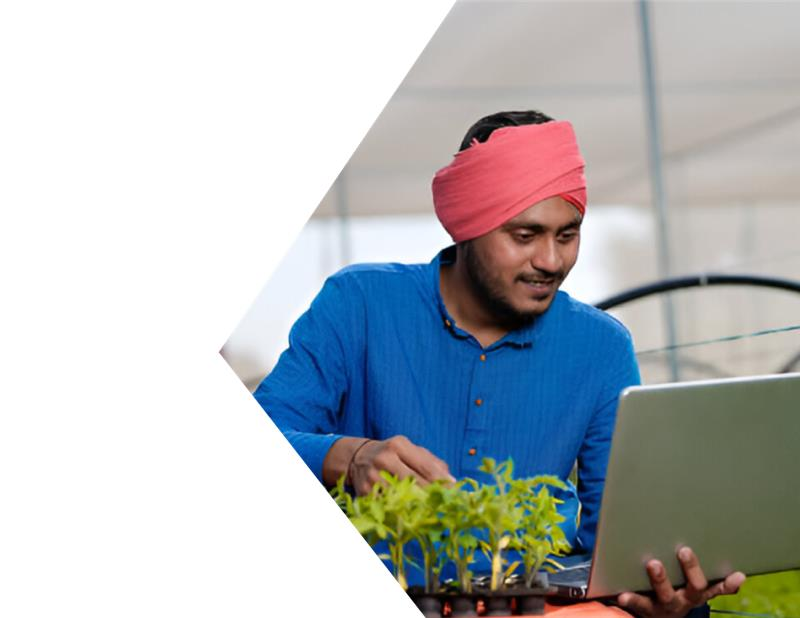
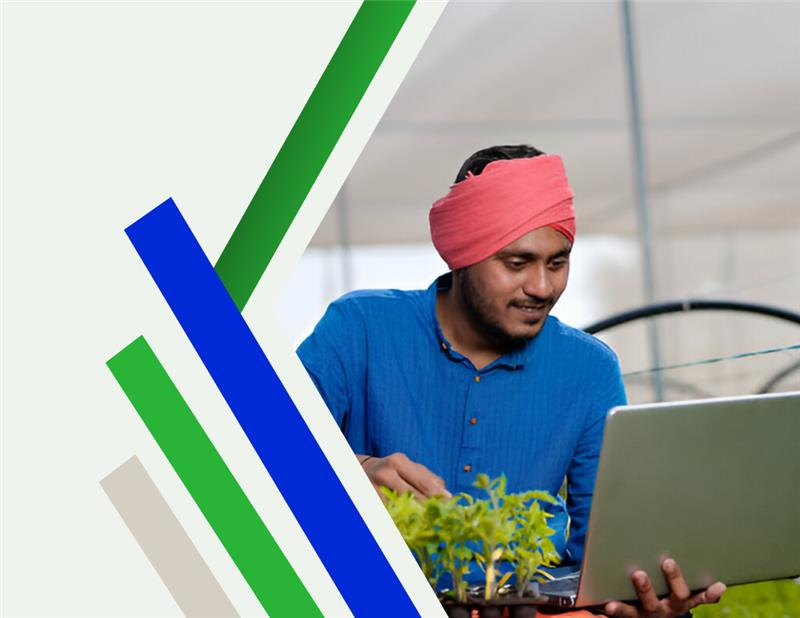
Update hero image source in HeroHomeTwo component for improved visual consistency

diff --git a/src/components/homepage/HeroHomeTwo.tsx b/src/components/homepage/HeroHomeTwo.tsx
@@ -67,7 +67,7 @@ export default function HeroHomeTwo() {
 
         <Image
           // src='/assets/img/banner/hero-v2.png'
-          src='/hero-v2-4.png'
+          src='/hero-v2-1.png'
           alt='img'
           className='hero-v02-thumb object-fit-fill'
           width={1036}
